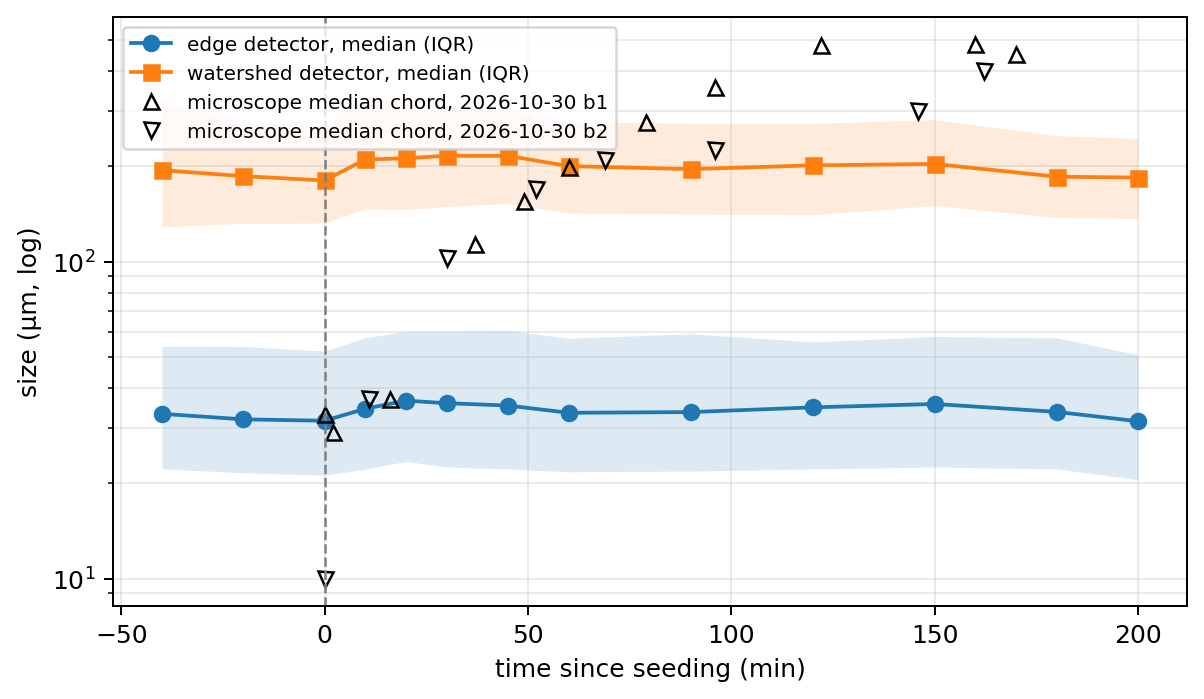
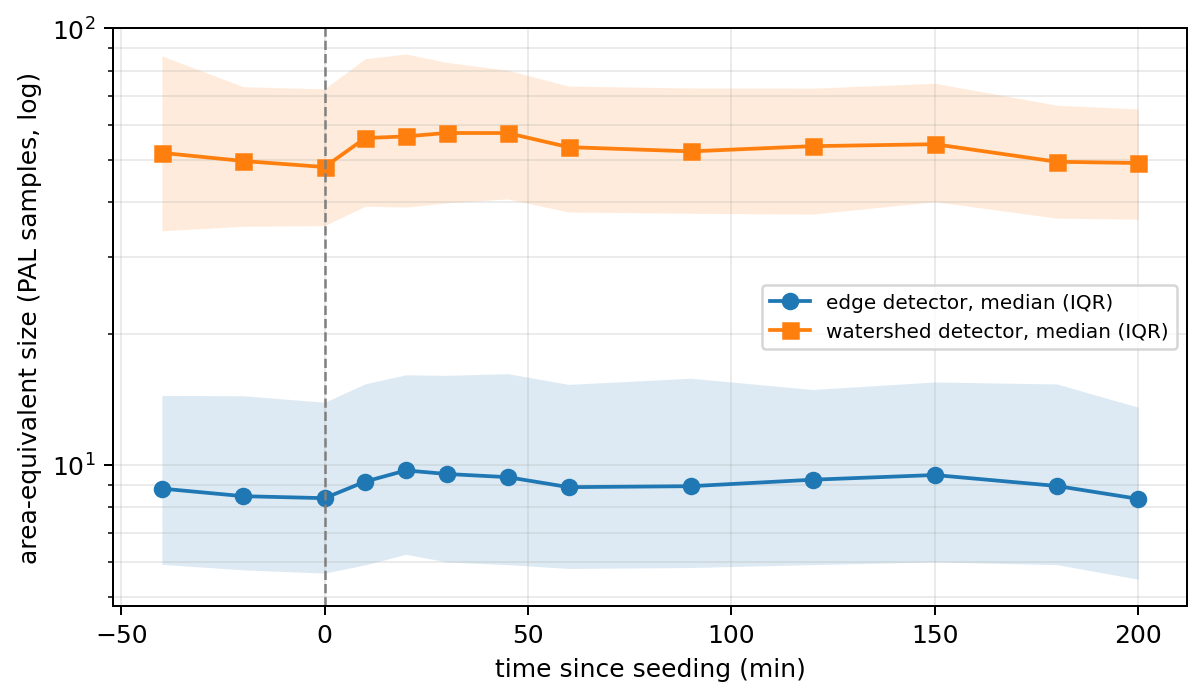
docs(paper): fig 19 in PAL samples, not µm
The camera scale is not validated, so detector sizes over strike b2 are
plotted and quoted in PAL samples (edge 8.4-9.7, watershed 48-58). The
microscope points are dropped from the figure; the caption cites their
17-fold growth. CLAIM_CHANGES 76.

diff --git a/scripts/detector_checks.py b/scripts/detector_checks.py
@@ -173,8 +173,6 @@ def detector_vs_time() -> list[dict[str, float | str]]:
     seed_id = side["kpi_pairing_hint"]["seeding_event_id"]
     t_seed = next(e["t"] for e in side["events"] if e["id"] == seed_id)
     lens = lens_from_config(CFG)  # PAL raster
-    d = CFG.focus_object_distance_mm
-    um_px = 1e3 * float(mm_per_pixel_at(lens, d, np.array([d]))[0])
     cfg_l = _layer_config(detection_area_px(CFG, lens))
     crop = resolve_crop(PAL, None)
     cap = cv2.VideoCapture(PAL)
@@ -194,19 +192,20 @@ def detector_vs_time() -> list[dict[str, float | str]]:
                 crop=crop,
                 detector=det,
             )
-            s = np.array([o.apparent_size_px for o in obs]) * um_px
+            # PAL samples, not µm: the scale is not validated in the image
+            s = np.array([o.apparent_size_px for o in obs])
             rows.append(
                 {
                     "t_min": tm,
                     "detector": det,
                     "per_frame": len(s) / N_PER_TIME,
-                    "median_um": float(np.median(s))
+                    "median_px": float(np.median(s))
                     if s.size
                     else float("nan"),
-                    "p25_um": float(np.percentile(s, 25))
+                    "p25_px": float(np.percentile(s, 25))
                     if s.size
                     else float("nan"),
-                    "p75_um": float(np.percentile(s, 75))
+                    "p75_px": float(np.percentile(s, 75))
                     if s.size
                     else float("nan"),
                 }
@@ -219,36 +218,23 @@ def fig_detector_vs_time(
 ) -> None:
     import matplotlib.pyplot as plt
 
-    from microscope_summary import summary_rows
-
     fig, ax = plt.subplots(figsize=(6.8, 4.0))
     for det, col, mk in (("edge", "C0", "o"), ("watershed", "C1", "s")):
         r = [x for x in rows if x["detector"] == det]
         t = np.array([x["t_min"] for x in r], dtype=float)
-        med = np.array([x["median_um"] for x in r], dtype=float)
-        lo = np.array([x["p25_um"] for x in r], dtype=float)
-        hi = np.array([x["p75_um"] for x in r], dtype=float)
+        med = np.array([x["median_px"] for x in r], dtype=float)
+        lo = np.array([x["p25_px"] for x in r], dtype=float)
+        hi = np.array([x["p75_px"] for x in r], dtype=float)
         ax.fill_between(t, lo, hi, color=col, alpha=0.15, linewidth=0)
         ax.plot(
             t, med, color=col, marker=mk, label=f"{det} detector, median (IQR)"
         )
-    for batch, mk in (("b1", "^"), ("b2", "v")):
-        m = [r for r in summary_rows() if r[0] == batch and r[2] != ""]
-        ax.plot(
-            [float(str(r[2])) for r in m],
-            [float(str(r[6])) for r in m],
-            linestyle="none",
-            marker=mk,
-            color="k",
-            mfc="none",
-            label=f"microscope median chord, 2026-10-30 {batch}",
-        )
     ax.axvline(0.0, color="0.5", linestyle="--", linewidth=1.0)
     ax.set_yscale("log")
     ax.set_xlabel("time since seeding (min)")
-    ax.set_ylabel("size (µm, log)")
+    ax.set_ylabel("area-equivalent size (PAL samples, log)")
     ax.grid(True, which="both", alpha=0.25)
-    ax.legend(fontsize=8, loc="upper left")
+    ax.legend(fontsize=8, loc="center right")
     fig.tight_layout()
     fig.savefig(out, dpi=180, bbox_inches="tight")
     plt.close(fig)
@@ -268,13 +254,13 @@ def _print_sweep(rows: list[dict[str, float]]) -> None:
 
 def _print_time(rows: list[dict[str, float | str]]) -> None:
     print(
-        "| t since seeding (min) | detector | detections / frame | median (µm) | IQR (µm) |"
+        "| t since seeding (min) | detector | detections / frame | median (PAL samples) | IQR (PAL samples) |"
     )
     print("|---:|---|---:|---:|---|")
     for r in rows:
         print(
-            f"| {r['t_min']} | {r['detector']} | {r['per_frame']:.0f} | {r['median_um']:.0f} | "
-            f"{r['p25_um']:.0f}–{r['p75_um']:.0f} |"
+            f"| {r['t_min']} | {r['detector']} | {r['per_frame']:.0f} | {r['median_px']:.1f} | "
+            f"{r['p25_px']:.1f}–{r['p75_px']:.1f} |"
         )
 
 

diff --git a/papers/cep/sections/csd.tex b/papers/cep/sections/csd.tex
@@ -143,9 +143,9 @@ artefact (\secref{sec:watershed}), and the subsets differ because of the near/fa
 
 The strongest label-free test is the time course. Strike b2 of the 2026-02-04 PAL recording is covered from
 concentration to discharge (\secref{sec:recording}). We ran both detectors on 10 frames, 1~s apart, at 13 times from
-40~min before seeding to 200~min after it, with the configured PAL window $[9,\ 71\,020]$~px$^2$ and sizes at the
-modelled PAL scale (\code{scripts/detector_checks.py time}; \figref{fig:time}). The edge median stays at 31--36~\um{} and the
-watershed median at 180--216~\um{} over the whole strike, and both return before seeding, when the pan holds
+40~min before seeding to 200~min after it, with the configured PAL window $[9,\ 71\,020]$~px$^2$ (\code{scripts/detector_checks.py time}; \figref{fig:time}). The
+edge median stays at 8.4--9.7 PAL samples and the watershed median at 48--58 over the whole strike, within 16\,\% and
+20\,\%, and both return before seeding, when the pan holds
 concentrating syrup, the same values as at its end. In the 2026-10-30 run of the same pan the microscope medians
 grow 17-fold, from 29 to 483~\um{} within 122~min. That run is from another day, but a growth of this order is what
 seeding and boiling imply; a detector whose median does not move over 240~min, and does not distinguish syrup
@@ -156,10 +156,9 @@ before seeding from massecuite before discharge, does not measure crystal size.
 \includegraphics[width=\columnwidth]{19_detector_vs_time}
 \caption{\textbf{Do the detectors see the crystals grow?} Median and interquartile range of the edge and watershed
 detections against time since seeding, strike b2 of the 2026-02-04 PAL recording (10 frames per time; configured
-window; area-equivalent size at the modelled PAL scale, detector outputs rather than crystal sizes;
-\texttt{scripts/detector\_checks.py time}). Open triangles: microscope
-median chords of the 2026-10-30 run of the same pan, another day, for reference
-(\tabref{tab:microscope}).}\label{fig:time}
+window; area-equivalent size in PAL samples, detector outputs rather than crystal sizes;
+\texttt{scripts/detector\_checks.py time}). Over a comparable span the microscope medians of another strike grow
+17-fold (\tabref{tab:microscope}).}\label{fig:time}
 \end{figure}
 
 \subsection{What the depth subsets do and do not show}\label{sec:selfcheck}

diff --git a/docs/optics/detector_checks.md b/docs/optics/detector_checks.md
@@ -38,37 +38,37 @@ late). Discharge (level passes the glass) at 210 min. At each time, 10 frames 1 
 sampled frame (`optics.disambiguate.detect_observations`). Figure: `figures/19_detector_vs_time.png`, with the
 2026-10-30 microscope medians (another day, operator-picked chords) for reference.
 
-| t since seeding (min) | detector | detections / frame | median (µm) | IQR (µm) |
+| t since seeding (min) | detector | detections / frame | median (PAL samples) | IQR (PAL samples) |
 |---:|---|---:|---:|---|
-| -40 | edge | 347 | 33 | 22–54 |
-| -40 | watershed | 42 | 194 | 129–324 |
-| -20 | edge | 368 | 32 | 22–54 |
-| -20 | watershed | 85 | 186 | 132–276 |
-| 0 | edge | 299 | 32 | 21–52 |
-| 0 | watershed | 85 | 180 | 133–272 |
-| 10 | edge | 397 | 34 | 22–58 |
-| 10 | watershed | 57 | 210 | 147–320 |
-| 20 | edge | 331 | 36 | 23–60 |
-| 20 | watershed | 79 | 212 | 146–327 |
-| 30 | edge | 290 | 36 | 23–60 |
-| 30 | watershed | 80 | 216 | 149–313 |
-| 45 | edge | 237 | 35 | 22–61 |
-| 45 | watershed | 92 | 216 | 153–301 |
-| 60 | edge | 245 | 33 | 22–57 |
-| 60 | watershed | 111 | 200 | 142–277 |
-| 90 | edge | 229 | 34 | 22–59 |
-| 90 | watershed | 115 | 196 | 141–274 |
-| 120 | edge | 257 | 35 | 22–56 |
-| 120 | watershed | 116 | 201 | 141–273 |
-| 150 | edge | 267 | 36 | 23–58 |
-| 150 | watershed | 104 | 204 | 150–281 |
-| 180 | edge | 209 | 34 | 22–58 |
-| 180 | watershed | 134 | 186 | 138–250 |
-| 200 | edge | 224 | 31 | 21–51 |
-| 200 | watershed | 148 | 184 | 137–245 |
+| -40 | edge | 347 | 8.8 | 5.9–14.4 |
+| -40 | watershed | 42 | 51.8 | 34.4–86.4 |
+| -20 | edge | 368 | 8.5 | 5.8–14.4 |
+| -20 | watershed | 85 | 49.6 | 35.2–73.5 |
+| 0 | edge | 299 | 8.4 | 5.7–13.9 |
+| 0 | watershed | 85 | 48.1 | 35.3–72.6 |
+| 10 | edge | 397 | 9.2 | 5.9–15.3 |
+| 10 | watershed | 57 | 56.0 | 39.1–85.2 |
+| 20 | edge | 331 | 9.7 | 6.2–16.1 |
+| 20 | watershed | 79 | 56.5 | 38.9–87.3 |
+| 30 | edge | 290 | 9.5 | 6.0–16.0 |
+| 30 | watershed | 80 | 57.6 | 39.8–83.5 |
+| 45 | edge | 237 | 9.4 | 5.9–16.2 |
+| 45 | watershed | 92 | 57.5 | 40.7–80.1 |
+| 60 | edge | 245 | 8.9 | 5.8–15.3 |
+| 60 | watershed | 111 | 53.4 | 38.0–73.7 |
+| 90 | edge | 229 | 8.9 | 5.8–15.8 |
+| 90 | watershed | 115 | 52.2 | 37.7–73.0 |
+| 120 | edge | 257 | 9.3 | 5.9–14.9 |
+| 120 | watershed | 116 | 53.7 | 37.5–72.9 |
+| 150 | edge | 267 | 9.5 | 6.0–15.5 |
+| 150 | watershed | 104 | 54.2 | 40.1–74.8 |
+| 180 | edge | 209 | 9.0 | 5.9–15.3 |
+| 180 | watershed | 134 | 49.5 | 36.7–66.6 |
+| 200 | edge | 224 | 8.4 | 5.5–13.6 |
+| 200 | watershed | 148 | 49.1 | 36.5–65.3 |
 
-Reading: over 240 min, from 40 min before seeding to 10 min before discharge, the edge median stays at 31–36 µm
-and the watershed median at 180–216 µm, and both give the same value before seeding as at the end of the strike.
+Reading: over 240 min, from 40 min before seeding to 10 min before discharge, the edge median stays at 8.4–9.7 PAL samples
+and the watershed median at 48–58 PAL samples (PAL samples, not µm: the scale is not validated in the image), and both give the same value before seeding as at the end of the strike.
 In the 2026-10-30 run of the same pan the microscope medians grow from 29 µm (2 min) to 483 µm (122 min). A frame
 at 120 min (PAL t = 12 080.5 s) shows faceted crystals some 50–80 samples across; this is a visual reading, not a
 label.

diff --git a/papers/cep/CLAIM_CHANGES.md b/papers/cep/CLAIM_CHANGES.md
@@ -175,3 +175,4 @@ Not done (needs data or an author decision):
 73. Author-requested matched-time tracing (2026-11-03). §7.7: "a residual factor ≈ 1.3–1.6 undecided between a ≈ 40 mm tube and operator selection" → four blind AI annotators (two longest-chord, two full-outline following the team protocol) on 12 raw frames at 12:07/12:30/13:32/14:20: traced sizes grow with the microscope (p90 log-log slope 0.64 / 0.78); on the separate-crystal frames lab ÷ traced at the modelled scale is 0.86–1.02 (chords) and 1.14–1.32 (outlines); selection can only raise it, so the true scale is ≤ ≈ 1.3× the modelled one and the ≈ 40 mm tube (×1.49) is excluded for these frames; late packed frames 1.4–2.0 are not a measurement (outlines not closed, field partly tiled). `\pending{human annotation of the twelve frames}`. §3.4 and §9.1 updated to the bound. [scripts/traced_vs_lab.py; datasets/camera_traced_chords.csv, camera_traced_outlines.json, camera_traced_frames/]
 74. Author decision 2026-11-04: the tube is Fedor's ≈ 6 cm (spacer ring alone), settled. The AI reading of the site photos (tube ≈ 37–42 mm, gap ≈ 35–46 mm; items 71–73) was never a measurement and is withdrawn. §2.2 and §3.4: photo reading and "contradicting the plant's ≈ 6 cm / ≈ 2 cm" removed. §7.7: "the 1.49 times of a ≈ 40 mm tube is excluded" → "the two methods differ by about 30 %, so the tracing cannot resolve the ±10 % budget". §9.1: "which excludes the ≈ 37–42 mm tube read from site photographs" removed. Config comments on tube and air gap likewise. [docs/sered/notes_plant_dcs_qa_photos.md:267; author 2026-11-04]
 75. Author decision 2026-11-04: no CS-to-C adapter ring in the 6 cm. The ring alternative (+8.9 %) is removed: abstract, tab:scale caption and "With ring" column, §3.2, §2.2 ("is open … \citep{AdemcoACM380E}" → "taken as the spacer alone, without a 5 mm CS-to-C adapter ring"), §9.1, §9.3 rec 1 ("(CS-to-C ring)"), config comment. The matched-time tracing cannot distinguish the two cases (1.00 vs 1.09 against a 30 % spread between methods), so this is an author decision, not a fit. [author 2026-11-04]
+76. Author request 2026-11-04: fig 19 and §7.5 in PAL samples, not µm (no absolute camera size, item 69). Edge median 31–36 µm → 8.4–9.7 PAL samples, watershed 180–216 µm → 48–58 (same detections, unit only; within 16 % and 20 %). Microscope triangles removed from fig 19 (placing them on a pixel axis needs the unvalidated scale); caption cites their 17-fold growth instead. [scripts/detector_checks.py time; docs/optics/detector_checks.md]
